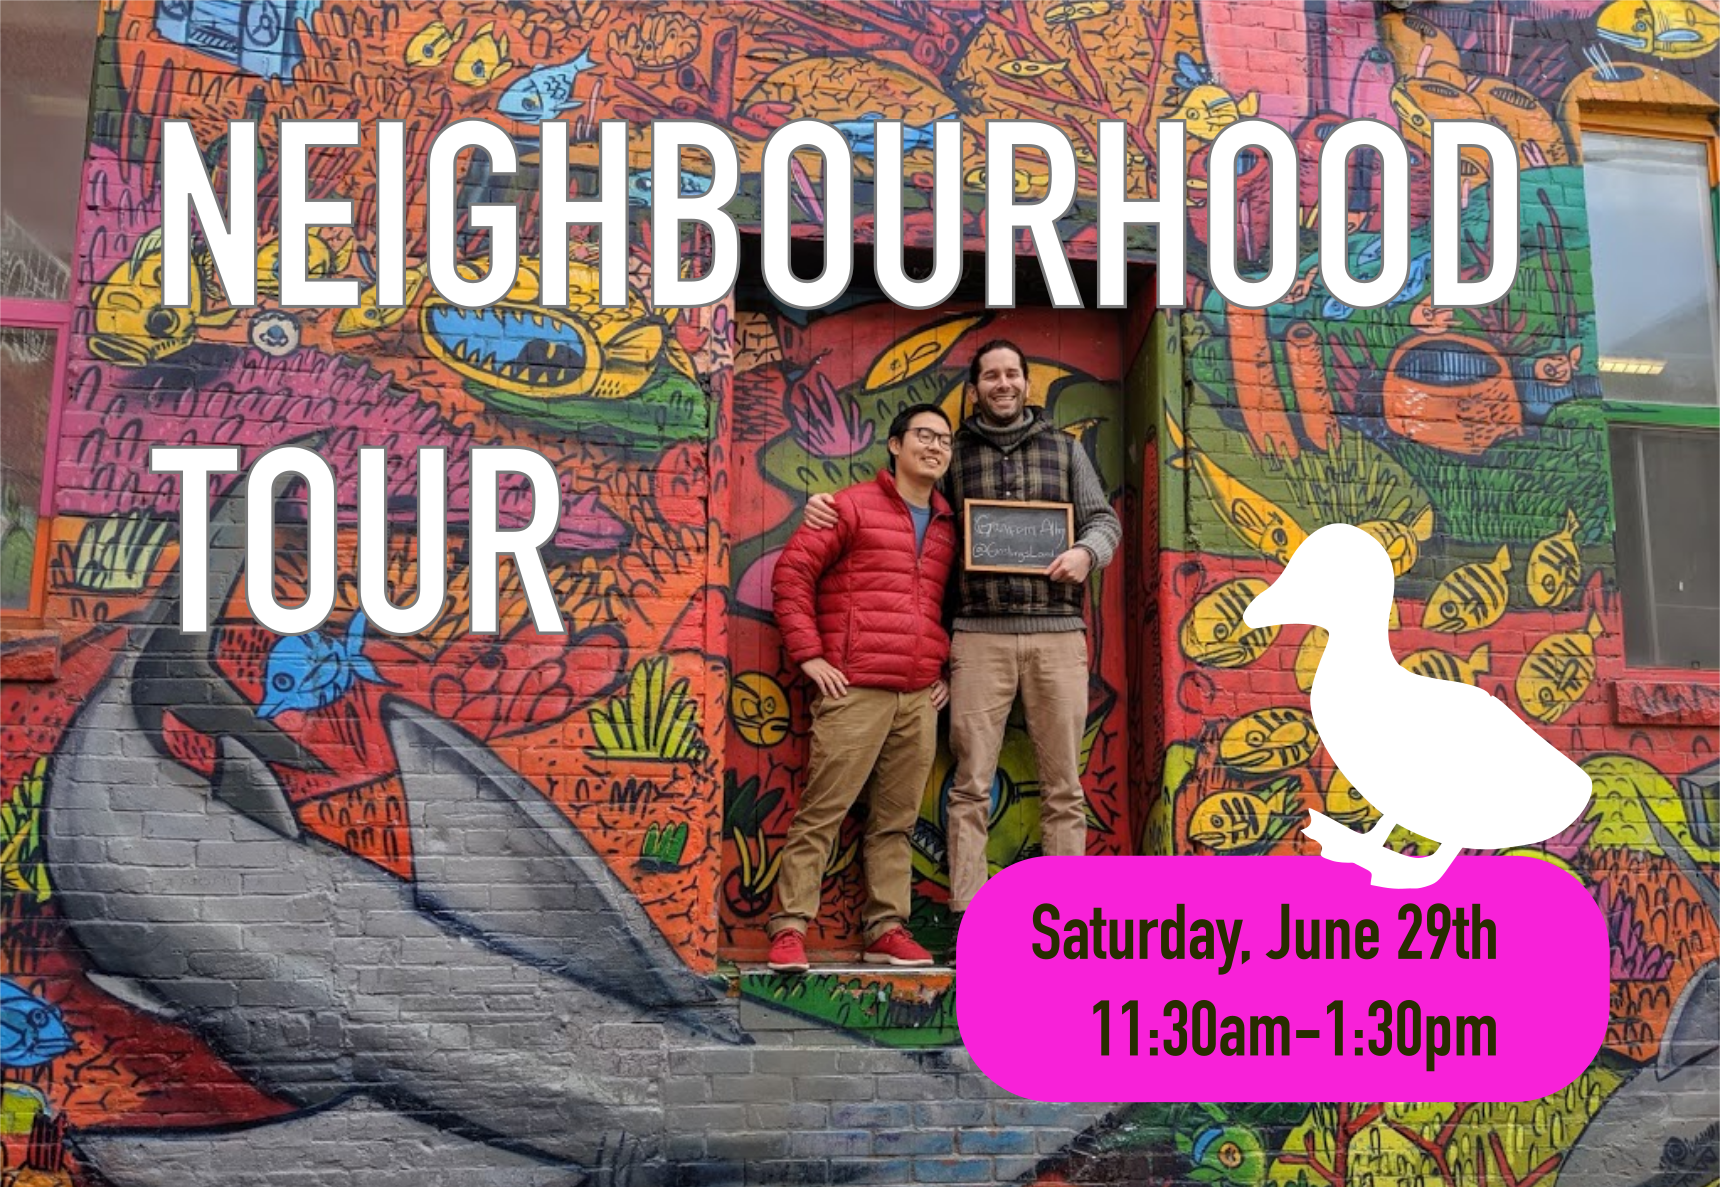
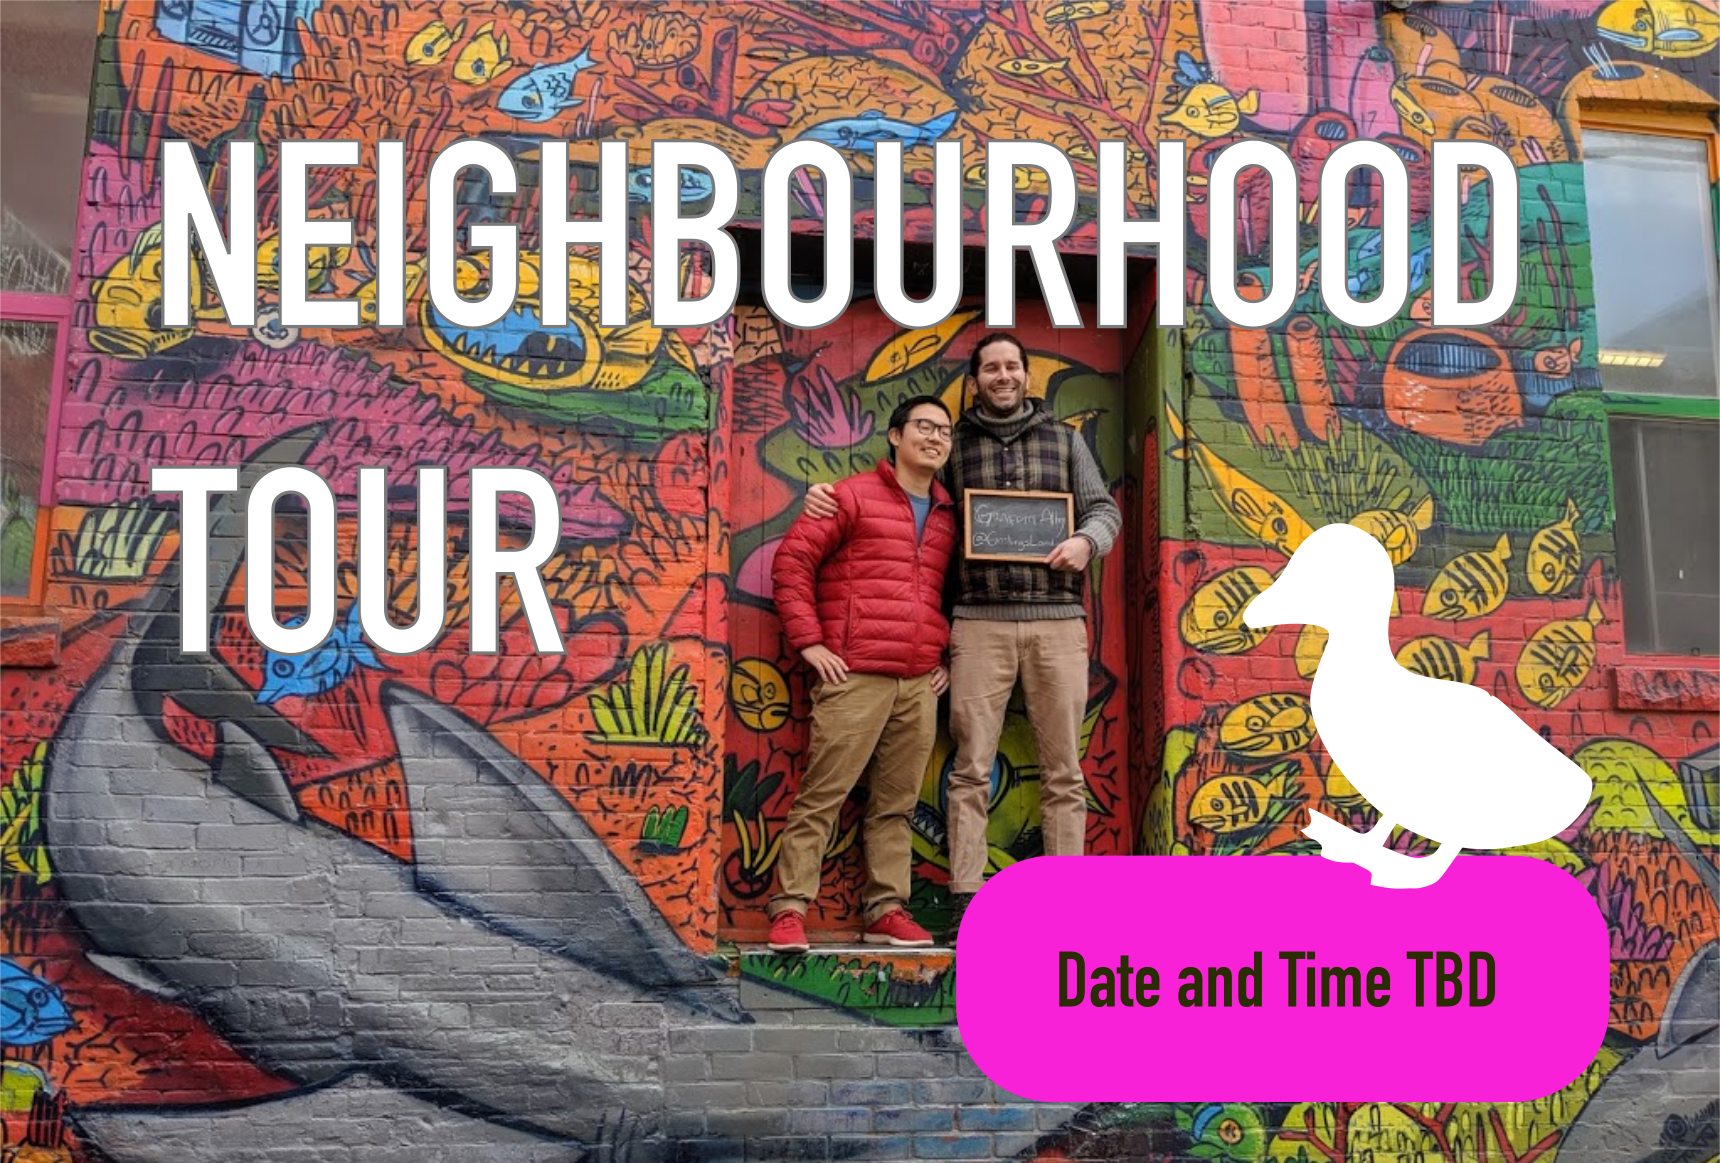
tour edit

diff --git a/events.html b/events.html
@@ -57,32 +57,19 @@
                             <div class="split2">
 								<div class="content">
 									<header>
-										<h3 style="color:#FED25C">Chris' Birthday BBQ!</h3>
-                                        <p><b>Saturday, June 22nd, 2019</b><br/>
-                                       It's finally summer and time to start up the backyard BBQ! Join us to celebrate fellow Gosling Chris' birthday! Get in touch for more information and to save a seat at this private event :) </p>
-									</header>
+										<h3 style="color:#FED25C">Neighbourhood Tour</h3>
+                                        <p><b>Date TBD - Friday, June 28th or Monday, July 1st</b><br/>
+                                        Join us for a free walking tour to Graffiti Alley, Kensington Market, Chinatown, and Queen St West! Time and date to be determined soon :)</header>
                                     <p><b><a href="hello@goslingslanding.ca">hello@goslingslanding.ca :)</a></b>
                                     </p>
 								</div>
 								<ul class="content">
-									<span class="image event"><img src="images/hostel/bbq.jpg" width="100%"></span>
+									<span class="image event"><img src="images/hostel/tour3.jpg" width="100%"></span>
 								</ul>
 							</div>
                             
-                            <div class="inner">
-                            <div class="split2">
-                                <ul class="content">
-									<span class="image event"><img src="images/hostel/tour3.jpg" width="100%"></span>
-								</ul>
-								<div class="content">
-									<header>
-										<h3 style="color:#FED25C">NEIGHBOURHOOD Tour</h3>
-                                        <p><b>Saturday, June 29th, 2019</b><br/>
-                                       Join us for a free walking tour to Graffiti Alley, Kensington Market, Chinatown, and Queen St West! Enjoy some coffee at Gosling's Landing before the tour starts at 11:30am. </p>
-									</header>
-								</div>
+                            
 								
-							</div>
                             <hr>
                             
                             <header><h2>More Events</h2></header>
@@ -142,15 +129,18 @@
                             Family Dinner &amp; Boardgames Night - May 1st, 2019<br/>
                             Pancake Brunch &amp; Neighbourhood Tour - May 11th, 2019<br/>
                             Boardgame Bonanza - May 19th, 2019<br/>
-                            Raptors Game 1 vs Warriors - May 30th, 2019</p>
+                            Raptors Game 1 vs Warriors - May 30th, 2019<br/>
+                            Chris' Birthday BBQ - June 22nd, 2019  </p>
                             </div>
                              <ul class="content">
 									<span class="image event"><img src="images/hostel/tour2.jpg" width="100%"></span>
 								</ul>
                             </div>
+                                
+                                
 
                             
-						</div>
+                            </div></div>
 					</section>
 
 				<!-- Copyright -->
